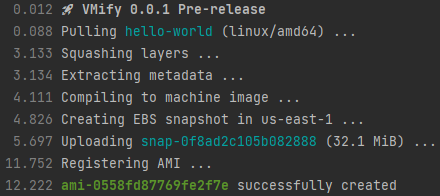
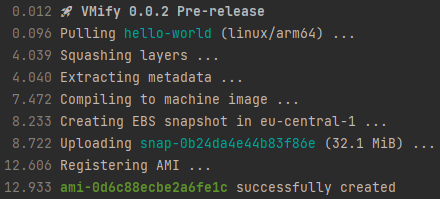
Updated docs for 0.0.2

diff --git a/README.md b/README.md
@@ -87,7 +87,7 @@ Finally, make sure you have
 ### Usage
 
 ```
-🚀 VMify
+🚀 VMify 0.0.2 Pre-release
 From Docker Image to Cloud in Seconds
 
 Usage: 
@@ -103,13 +103,14 @@ Params:
   image       The Docker image to compile into an AMI
   
 Args:
-  -q          Quiet mode. Only print AWS AMI id when finished
-  -t          Timing information suppressed from output
+  -q          Quiet mode: only print AWS AMI id upon completion
+  -t          Timings displayed in output
   -d          Debug output turned on during boot
   -b          reBoot instead of terminating upon entrypoint exit
+  -a=arch     Arch for the image (x64 or arm64, default: current cpu arch)
   -r=region   Region in AWS to use (default: us-east-1)
   -w=number   sWap size (in GiB) to use, 0 to disable swap (default: 1)
-  -k=args     Kernel arguments (default: quiet)
+  -k=args     Kernel arguments
   -s:key=val  Sysctl to set with this value
   -h or -?    Show this help message
 ```
@@ -127,6 +128,29 @@ VMify works with the following AWS regions:
 
 ### Instance types
 
-AMIs created by VMify are compatible with the following Intel and AMD instances types:
+AMIs created by VMify are compatible with the following instances types:
+
+#### x64 (Intel and AMD)
 
 `t3`, `t3a`, `m6i`, `m5`, `m5a`, `m5n`, `m5zn`, `c6i`, `c6a`, `c5`, `c5a`, `c5n`, `r5`, `r5b`, `r5a`, `r5n`
+
+#### arm64 (Graviton)
+
+`t4g`, `m6g`, `c6g`, `c6gn`, `r6g`
+
+## Changelog
+
+### 0.0.2 (2022-03-16) - Private pre-release
+
+#### New features
+
+- [#1](https://github.com/vmify/vmify/issues/1) ARM64 image support
+
+#### Breaking changes
+
+- [#8](https://github.com/vmify/vmify/issues/8) Disable timing output by default
+- [#9](https://github.com/vmify/vmify/issues/9) Automatically disable quiet kernel output when debug is active
+
+### 0.0.1 (2022-02-21) - Private pre-release
+
+- Initial release
